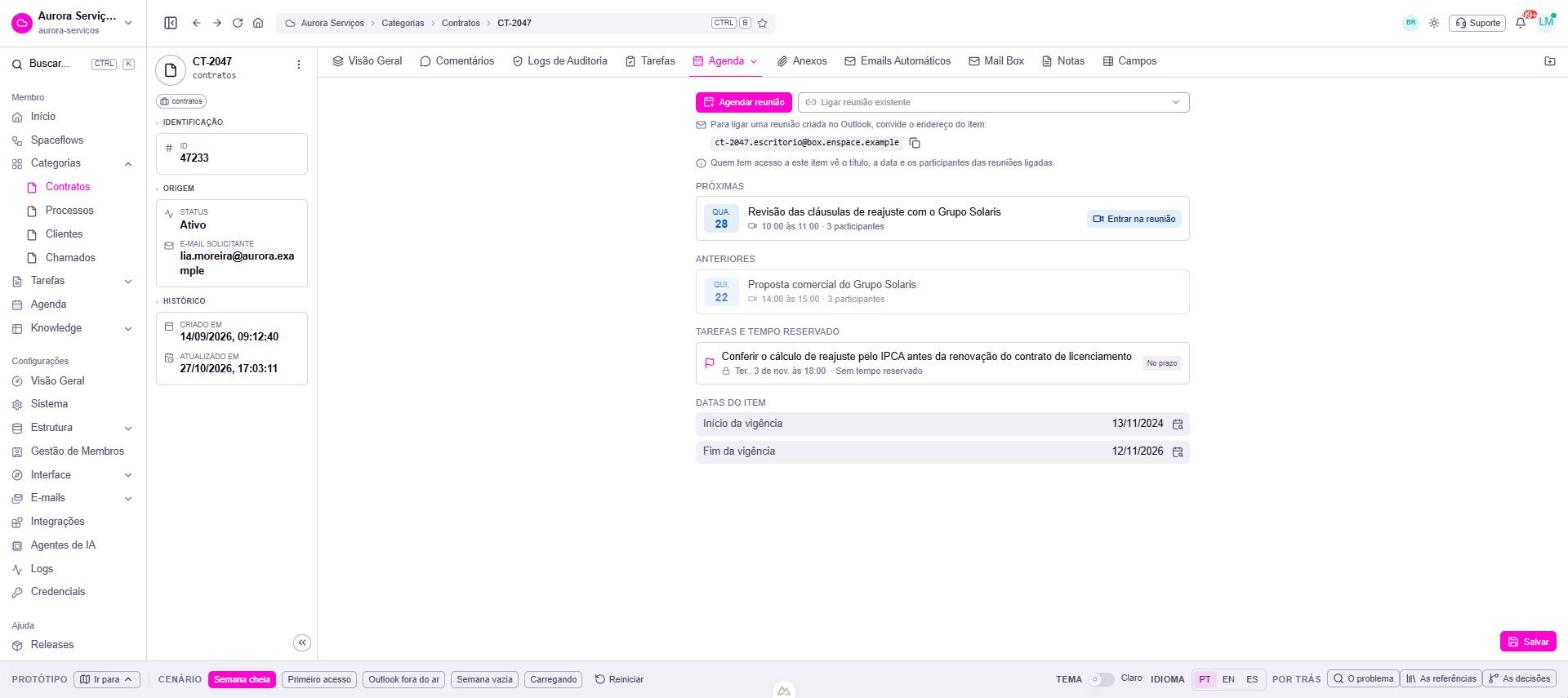
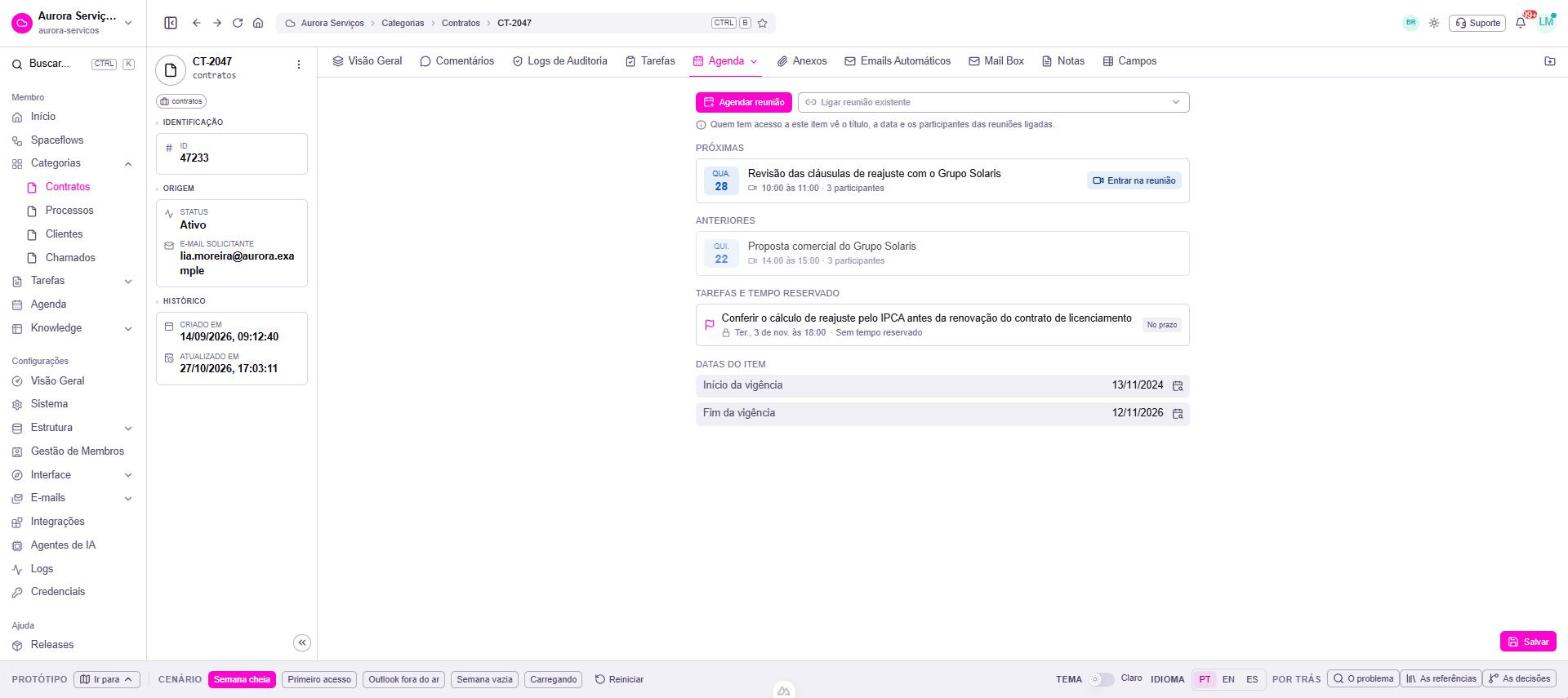
[PROTO] agenda — rodada 2 — Mail Box do item sai como forma de ligar reunião; a ligação fica no domínio do participante, no Ligado a e no Ligar reunião existente, como no mercado

Changed region(s): [[0.4375, 0.1504, 0.75, 0.6619], [0.6875, 0.3009, 0.75, 0.3309], [0.6875, 0.2407, 0.75, 0.2708]]

diff --git a/app/pages/agenda/textos-ligacoes.ts b/app/pages/agenda/textos-ligacoes.ts
@@ -106,9 +106,6 @@ const ptBR = {
     blocos: (n: number) => n === 0 ? 'Sem tempo reservado' : n === 1 ? '1 horário reservado' : `${n} horários reservados`,
     verNaAgenda: 'Ver na Agenda',
     retrato: 'Quem tem acesso a este item vê o título, a data e os participantes das reuniões ligadas.',
-    pelaCaixa: 'Para ligar uma reunião criada no Outlook, convide o endereço do item:',
-    copiar: 'Copiar endereço',
-    copiado: 'Endereço copiado',
   },
   reuniaoForm: {
     titulo: 'Agendar reunião',
@@ -117,8 +114,6 @@ const ptBR = {
     contato: 'O contato do item entrou como participante.',
     ligadaA: (ref: string) => `A reunião nasce ligada a ${ref}.`,
     escolherNaGrade: 'Escolher o horário na grade',
-    caixa: 'Convidar o Mail Box do item',
-    caixaTexto: 'O vínculo continua quando alguém muda a reunião pelo Outlook.',
     criar: 'Criar reunião',
     cancelar: 'Cancelar',
   },
@@ -260,9 +255,6 @@ const en: TextosDasLigacoes = {
     blocos: n => n === 0 ? 'No reserved time' : n === 1 ? '1 reserved slot' : `${n} reserved slots`,
     verNaAgenda: 'View in Calendar',
     retrato: 'Anyone with access to this item sees the title, date and participants of the linked meetings.',
-    pelaCaixa: 'To link a meeting created in Outlook, invite the item address:',
-    copiar: 'Copy address',
-    copiado: 'Address copied',
   },
   reuniaoForm: {
     titulo: 'Schedule meeting',
@@ -271,8 +263,6 @@ const en: TextosDasLigacoes = {
     contato: 'The item contact was added as a participant.',
     ligadaA: ref => `The meeting is created linked to ${ref}.`,
     escolherNaGrade: 'Pick the time on the grid',
-    caixa: 'Invite the item Mail Box',
-    caixaTexto: 'The link remains when someone changes the meeting in Outlook.',
     criar: 'Create meeting',
     cancelar: 'Cancel',
   },
@@ -412,9 +402,6 @@ const es: TextosDasLigacoes = {
     blocos: n => n === 0 ? 'Sin tiempo reservado' : n === 1 ? '1 horario reservado' : `${n} horarios reservados`,
     verNaAgenda: 'Ver en la Agenda',
     retrato: 'Quien tiene acceso a este ítem ve el título, la fecha y los participantes de las reuniones vinculadas.',
-    pelaCaixa: 'Para vincular una reunión creada en Outlook, invite la dirección del ítem:',
-    copiar: 'Copiar dirección',
-    copiado: 'Dirección copiada',
   },
   reuniaoForm: {
     titulo: 'Agendar reunión',
@@ -423,8 +410,6 @@ const es: TextosDasLigacoes = {
     contato: 'El contacto del ítem se agregó como participante.',
     ligadaA: ref => `La reunión se crea vinculada a ${ref}.`,
     escolherNaGrade: 'Elegir el horario en la cuadrícula',
-    caixa: 'Invitar el Mail Box del ítem',
-    caixaTexto: 'El vínculo se mantiene cuando alguien cambia la reunión en Outlook.',
     criar: 'Crear reunión',
     cancelar: 'Cancelar',
   },

diff --git a/app/pages/agenda/_AgendaDoItem.vue b/app/pages/agenda/_AgendaDoItem.vue
@@ -11,13 +11,11 @@
  *  - as datas do item, cada uma com "Ver na Agenda".
  *
  * Sem permissão de editar o item, agendar e ligar não aparecem: uma linha diz o motivo.
- *
- * Pelo Outlook, sem passar pelo ENSPACE: quem convida o Mail Box do item liga a reunião a ele. O endereço fica à
- * vista, com o botão de copiar.
+
  */
 import type { Textos } from './textos'
 import { HOJE, diaCurto, diaNumerico, hora } from './datas'
-import { blocosDa, caixaDoItem, diaDe, estado, item, ligar, minutoDe, podeEditarItem, reunioesDo, reunioesParaLigar, situacao, souParticipante, temSla } from './estado'
+import { blocosDa, diaDe, estado, item, ligar, minutoDe, podeEditarItem, reunioesDo, reunioesParaLigar, situacao, souParticipante, temSla } from './estado'
 import { categoriaPorSlug } from './mocks'
 import { avisarReuniao } from './avisos'
 import AgendarReuniao from './_AgendarReuniao.vue'
@@ -55,11 +53,6 @@ function ligarExistente(id: string) {
 function criado(c: Parameters<typeof avisarReuniao>[2]) {
   agendando.value = false
   avisarReuniao(toast, props.t, c, props.itemId)
-}
-const caixa = computed(() => caixaDoItem(it.value))
-function copiar() {
-  navigator.clipboard?.writeText(caixa.value).catch(() => {})
-  toast.add({ title: props.t.agendaItem.copiado, icon: 'i-lucide-copy', color: 'neutral' })
 }
 const corDaSituacao = { 'concluida': 'success', 'atrasada': 'error', 'hoje': 'warning', 'no-prazo': 'neutral', 'sem-prazo': 'neutral' } as const
 </script>
@@ -107,16 +100,7 @@ const corDaSituacao = { 'concluida': 'success', 'atrasada': 'error', 'hoje': 'wa
         @cancelar="agendando = false"
         @na-grade="agendando = false; emit('agendarNaGrade', itemId)"
       />
-      <div class="-mt-2 flex flex-col gap-1.5 text-xs text-muted">
-        <p class="flex gap-1.5"><UIcon name="i-lucide-mail" class="mt-0.5 size-3.5 shrink-0" />{{ t.agendaItem.pelaCaixa }}</p>
-        <span class="flex items-center gap-1 pl-5">
-          <code class="min-w-0 truncate rounded bg-elevated px-1.5 py-0.5 font-mono text-highlighted">{{ caixa }}</code>
-          <UTooltip :text="t.agendaItem.copiar">
-            <UButton icon="i-lucide-copy" color="neutral" variant="ghost" size="xs" :aria-label="t.agendaItem.copiar" @click="copiar" />
-          </UTooltip>
-        </span>
-        <p class="flex gap-1.5"><UIcon name="i-lucide-info" class="mt-0.5 size-3.5 shrink-0" />{{ t.agendaItem.retrato }}</p>
-      </div>
+      <p class="-mt-2 flex gap-1.5 text-xs text-muted"><UIcon name="i-lucide-info" class="mt-0.5 size-3.5 shrink-0" />{{ t.agendaItem.retrato }}</p>
     </template>
 
     <!-- Reuniões ligadas -->

diff --git a/app/pages/agenda/_AgendarReuniao.vue b/app/pages/agenda/_AgendarReuniao.vue
@@ -6,13 +6,10 @@
  *
  * Na Agenda, "Escolher o horário na grade" volta ao caminho da rodada 1 (o próximo horário clicado cria a reunião
  * ligada).
- *
- * "Convidar o Mail Box do item" (ligado por padrão) põe o endereço do item entre os convidados: é o que segura o
- * vínculo quando o organizador muda a reunião pelo Outlook, e o mesmo caminho de quem cria a reunião direto lá.
  */
 import type { Textos } from './textos'
 import { HOJE, hora, paraMinutos, somarDias } from './datas'
-import { type Criado, caixaDoItem, conflitos, criar, item } from './estado'
+import { type Criado, conflitos, criar, item } from './estado'
 
 const props = defineProps<{ t: Textos, itemId: number | null, titulo: string, naAgenda?: boolean }>()
 const emit = defineEmits<{ criado: [c: Criado], cancelar: [], naGrade: [] }>()
@@ -30,7 +27,6 @@ const forma = reactive({
   fim: '11:00',
   participantes: contato.value ? [contato.value] : [] as string[],
   teams: true,
-  caixa: true,
 })
 
 const intervalo = computed(() => ({ ini: paraMinutos(forma.inicio), fim: paraMinutos(forma.fim) }))
@@ -53,7 +49,7 @@ function enviar() {
       tipo: 'reuniao',
       titulo: forma.titulo.trim(),
       lugar: { dia: forma.dia, inicio: intervalo.value.ini, fim: intervalo.value.fim },
-      participantes: forma.caixa && it.value ? [...forma.participantes, caixaDoItem(it.value)] : forma.participantes,
+      participantes: forma.participantes,
       teams: forma.teams,
       itemId: props.itemId,
       categoria: it.value?.categoria ?? 'contratos',
@@ -87,7 +83,6 @@ function enviar() {
     <UInputTags v-model="forma.participantes" :placeholder="t.criacao.participantes" :aria-label="t.criacao.participantes" icon="i-lucide-users" size="sm" add-on-blur add-on-paste delimiter="," class="w-full" />
     <p v-if="contato" class="-mt-1.5 text-xs text-muted">{{ t.reuniaoForm.contato }}</p>
     <USwitch v-model="forma.teams" :label="t.criacao.teams" size="sm" />
-    <USwitch v-if="it" v-model="forma.caixa" :label="t.reuniaoForm.caixa" :description="t.reuniaoForm.caixaTexto" size="sm" />
 
     <p v-if="it" class="flex items-center gap-1.5 text-xs text-toned"><UIcon name="i-lucide-link-2" class="size-3.5 text-info" />{{ t.reuniaoForm.ligadaA(it.reference) }}</p>
     <p class="text-xs text-muted">{{ t.criacao.noOutlook }}</p>

diff --git a/app/pages/agenda/estado.ts b/app/pages/agenda/estado.ts
@@ -113,11 +113,6 @@ export const fluxoDoCampo = (i: ItemDaAgenda) => {
   const c = categoriaPorSlug(i.categoria)
   return c.fluxo && c.fluxo.campo === fonte(i.categoria)?.campo ? c.fluxo : null
 }
-/**
- * O endereço do Mail Box do item (no develop, `<referência>.<workspace>@develop.box.enspace.io`). Convidar esse
- * endereço é a forma de ligar pelo Outlook: o convite chega ao item e a reunião se liga a ele.
- */
-export const caixaDoItem = (i: ItemDaAgenda) => `${i.reference.toLowerCase()}.escritorio@box.enspace.example`
 
 const visivel = (responsavel: number) => !estado.responsaveis.length || estado.responsaveis.includes(responsavel)
 export const fontesAtivas = computed(() => estado.fontes.filter(f => f.ativa))

diff --git a/app/pages/agenda/DECISOES.md b/app/pages/agenda/DECISOES.md
@@ -225,7 +225,6 @@ categoria some da criação. Onde a pessoa espera a ação e ela não está, uma
 | **Pasta Agenda na tela do item** | Depois de Tarefas, na barra de pastas | O mesmo conteúdo da aba Agenda do painel (`_AgendaDoItem.vue`): agendar reunião, ligar reunião existente, próximas e anteriores com "Entrar na reunião", tarefas com o tempo reservado e as datas do item com "Ver na Agenda" |
 | **Agendar reunião sem ir à grade** | Item e tarefa | Formulário no lugar: dia, início, fim, participantes (o contato do item já entra), Teams e a linha de conflito com a agenda da pessoa. Na Agenda, "Escolher o horário na grade" volta ao caminho da rodada 1 |
 | **Ligar reunião existente** | Item | Lista das reuniões da pessoa nos próximos 14 dias, sem vínculo, fora as particulares e as diárias |
-| **Mail Box do item liga pelo Outlook** | Item e formulário de reunião | O endereço do item fica à vista com o botão de copiar: quem convida esse endereço no Outlook liga a reunião ao item. No formulário, "Convidar o Mail Box do item" vem ligado e segura o vínculo quando o organizador muda a reunião pelo Outlook |
 | **Aba Agenda no painel da tarefa** | Depois de Comentários | Prazo editável quando a tarefa é da pessoa e não tem SLA; trancado com o motivo quando tem. Tempo reservado com "Reservar tempo", conflito e "Mostrar como ocupado no Outlook". Reuniões do item e "Agendar reunião sobre a tarefa" |
 | **1 painel de tarefa só** | Agenda, item e Tarefas | A Agenda abre o mesmo painel da tela de Tarefas, com a aba Agenda a mais. "Acessar Item" leva à tela do item |
 
@@ -254,7 +253,7 @@ categoria some da criação. Onde a pessoa espera a ação e ela não está, uma
 ### Fronteira
 
 - **Muda:** a pasta Agenda na tela do item, a aba Agenda no painel da tarefa, o formulário completo na criação, os
-  avisos de permissão e de risco, e o Mail Box do item como forma de ligar.
+  avisos de permissão e de risco.
 - **Não muda:** a tela do item e o painel da tarefa fora dessas partes. As 2 cascas foram copiadas de novo do develop em
   29/10 (`_TelaDoItem.vue`, `_PainelDaTarefa.vue`): abas sublinhadas, painel do item em caixas, trilho de ícones do
   painel da tarefa, "Detalhes da Tarefa" e "Concluir Etapa". As outras pastas e a aba Comentários mostram só "não muda".
@@ -266,8 +265,12 @@ categoria some da criação. Onde a pessoa espera a ação e ela não está, uma
 
 - Botão desligado com dica para o que a pessoa não pode fazer: o pedido foi não oferecer. A linha do motivo fica onde a
   pessoa espera a ação.
-- Ligar pelo domínio como única forma: continua como sugestão, e o Mail Box do item vira a forma explícita, que funciona
-  de dentro do Outlook.
+- Ligar pelo Mail Box do item (convidar o endereço do item na reunião do Outlook): proposto e retirado na mesma rodada,
+  a pedido da redatora. A pessoa precisaria saber que o item tem endereço, e o endereço apareceria entre os convidados
+  do cliente. Nenhum produto da [pesquisa](pesquisa/SINTESE.md) liga assim: Attio, Twenty e HubSpot ligam pelo e-mail
+  do participante e pelo domínio, Notion e ClickUp pelo vínculo manual, Clio e Odoo criando a reunião dentro do
+  registro. O protótipo já tem os 3 caminhos: a sugestão pelo domínio, "Ligado a" e "Ligar reunião existente", e
+  "Agendar reunião" no item e na tarefa.
 
 ### Andaime
 
@@ -279,15 +282,15 @@ vínculo". O atalho mostra todas as pessoas quando o filtro esconde o evento.
 
 - A pergunta da rodada 1 "o bloco vai para o Outlook como ocupado?" virou opção por bloco, ligada por padrão. Confirmar
   com produto.
-- O Mail Box do item recebe convite de calendário hoje, ou só e-mail? Se só e-mail, o vínculo pelo convite pede back-end
-  novo.
+- Ligar a reunião sem sair do Outlook pede um suplemento do Outlook (o caminho do HubSpot e do Salesforce, fora da
+  pesquisa): entra no roteiro?
 - O fluxo com gatilho em campo de data roda quando a data muda pela Agenda, ou só pelo formulário do item?
 
 ### Ver
 
 | Print | O que mostra |
 |---|---|
-| ![](evidencias/tela-do-item-agenda.png) | A pasta Agenda na tela do item, com o endereço do Mail Box |
+| ![](evidencias/tela-do-item-agenda.png) | A pasta Agenda na tela do item: agendar, ligar, reuniões, tarefas e datas do item |
 | ![](evidencias/painel-da-tarefa-agenda.png) | A aba Agenda no painel da tarefa: prazo do SLA trancado, tempo reservado e o conflito |
 | ![](evidencias/criacao-com-obrigatorios.png) | A criação rápida avisa os 2 obrigatórios e passa a "Continuar no formulário" |
 | ![](evidencias/formulario-do-item.png) | O formulário completo, com a data vinda da Agenda e os obrigatórios cobrados |

diff --git a/app/pages/agenda/BRIEFING.md b/app/pages/agenda/BRIEFING.md
@@ -224,7 +224,7 @@ Endereço `/types/<categoria>/<referência>?folder=<pasta>`: a pasta aberta vai 
 | T10 | Item | Não há como ver nem marcar nada na agenda a partir do item |
 | T11 | Tarefa | O painel não leva à Agenda e não reserva tempo; o prazo só muda fora dele |
 | T12 | Painel da tarefa | São 2 painéis diferentes: o da Agenda (abas Tarefa, Item, Histórico) e o de Tarefas (trilho de ícones e Comentários) |
-| T13 | Outlook | O Mail Box do item já tem endereço próprio, mas nada liga um convite do Outlook ao item |
+| T13 | Outlook | A reunião criada no Outlook não se liga ao item, nem pela tela do item |
 
 ### A casca, item por item (rodada 2)
 
